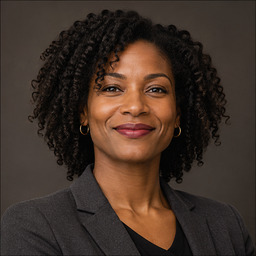
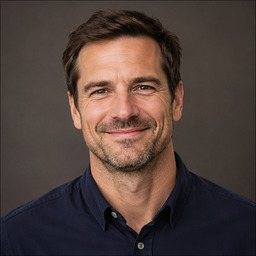
fix(preview): align fictional prospect headshots and add decision-copy breathing room

diff --git a/src/components/ReplyDecisionPreview.tsx b/src/components/ReplyDecisionPreview.tsx
@@ -125,7 +125,7 @@ function DecisionPacket({ scenario, phase, reducedMotion }: { scenario: ReplySce
           className="relative flex h-full min-h-[235px] flex-col overflow-hidden rounded-2xl border border-[#FF7B45]/25 bg-[radial-gradient(ellipse_at_92%_0%,rgba(255,90,31,.18),transparent_54%),linear-gradient(145deg,#2B2422,#222122_76%)] p-4 shadow-[inset_0_1px_0_rgba(255,255,255,.065),0_14px_32px_rgba(0,0,0,.24)] sm:p-5">
           <p className="flex items-center gap-1.5 text-[11px] font-semibold uppercase tracking-[.08em] text-[#FF8757]"><SignalIconMark kind="bolt" size={15} /> Decision ready</p>
           <h2 className="mt-2 text-[17px] font-bold leading-snug text-white sm:text-[19px]">{scenario.nextAction}</h2>
-          <p className="mt-2 text-[12px] leading-relaxed text-[#C1C1C4]">{scenario.why}</p>
+          <p className="mb-5 mt-2 text-[12px] leading-[1.45] text-[#C1C1C4]">{scenario.why}</p>
           {phase >= 2 && <motion.div initial={reducedMotion ? false : { opacity: 0, y: 5 }} animate={{ opacity: 1, y: 0 }}
             className="mt-auto flex items-start gap-2.5 rounded-xl border border-[#FF955E]/25 bg-[linear-gradient(110deg,rgba(255,105,48,.18),rgba(82,43,29,.72))] px-3.5 py-3 text-[12px] font-medium leading-snug text-[#FFD0B4] shadow-[inset_0_1px_0_rgba(255,220,194,.08),0_8px_20px_rgba(0,0,0,.16)]">
             <span className="mt-0.5 grid h-5 w-5 shrink-0 place-items-center rounded-full bg-[#FF7C43]/20 text-[#FFAB7D]"><SignalIconMark kind="approval" size={14} /></span><span><strong className="block text-[10px] uppercase tracking-[.08em] text-[#FFAA7E]">Human checkpoint</strong><span className="mt-1 block">{scenario.authority} · {scenario.rule}</span></span>
